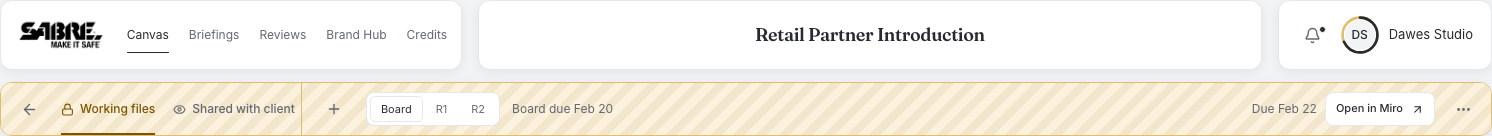
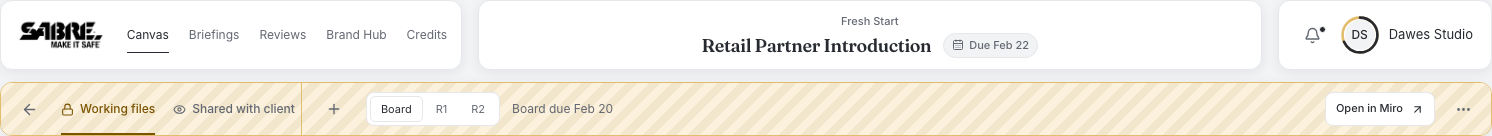
feat: add campaign and due date to the header preview

diff --git a/apps/web/features/projects/project-workspace.tsx b/apps/web/features/projects/project-workspace.tsx
@@ -11,7 +11,7 @@ import { PlaygroundAssetStrip } from "@/features/playground/playground-asset-str
 import { ProjectCreditsChip } from "@/features/credits/project-credits-chip";
 import { CommentPanel } from "./comment-panel";
 import { ProjectDetails } from "./project-details";
-import { ProjectBackLink, ProjectChannelLead } from "./project-header";
+import { ProjectBackLink, ProjectChannelLead, ProjectTitlePreview } from "./project-header";
 import { ProjectPanel, type ProjectPanelKind } from "./project-panel";
 import { ProjectToolBar, ProjectToolButton } from "./project-tool-bar";
 import { useFocusReturn, usePanelFocusReturn } from "./use-panel-focus-return";
@@ -117,6 +117,7 @@ export function ProjectWorkspace({
       ? designerDueDate(project.due_date, board?.dueDate ?? null)
       : project.due_date;
   const shownProject = dueDate === project.due_date ? project : { ...project, due_date: dueDate };
+  const dueLabel = dueDate ? `Due ${formatDate(dueDate)}` : "No due date";
   const shownLink = internal ? (round?.miro ?? board?.miro ?? null) : (version?.miro ?? null);
   const commentTarget = internal ? round : version;
   const commentLabels = Object.fromEntries(
@@ -176,9 +177,12 @@ export function ProjectWorkspace({
             viewer={profile}
             center={
               titleInHeader ? (
-                <h1 className="project-title-preview" title={project.title}>
-                  <span>{project.title}</span>
-                </h1>
+                <ProjectTitlePreview
+                  clientId={project.client_id}
+                  campaignId={project.campaign_id}
+                  title={project.title}
+                  dueLabel={dueLabel}
+                />
               ) : undefined
             }
           />
@@ -191,7 +195,7 @@ export function ProjectWorkspace({
           role={role}
           delivered={project.status === "delivered"}
           viewerId={profile?.id ?? ""}
-          dueLabel={dueDate ? `Due ${formatDate(dueDate)}` : "No due date"}
+          dueLabel={dueLabel}
           boardDueLabel={
             role === "agency" && board?.dueDate
               ? `Board due ${formatDate(board.dueDate)}`

diff --git a/apps/web/features/projects/projects.css b/apps/web/features/projects/projects.css
@@ -32,8 +32,10 @@
 }
 .project-title-preview {
   display: flex;
+  flex-direction: column;
   align-items: center;
   justify-content: center;
+  gap: 4px;
   min-width: 0;
   min-height: 46px;
   margin: 0;
@@ -42,13 +44,50 @@
   border-radius: 12px;
   background: var(--surface);
   box-shadow: 0 3px 14px rgb(0 0 0 / 7%);
-  font-size: 18px;
-  font-weight: 600;
-  letter-spacing: -0.02em;
 }
-.project-title-preview > span {
+.project-title-preview-campaign {
+  max-width: 100%;
+  margin: 0;
   overflow: hidden;
   text-overflow: ellipsis;
+  white-space: nowrap;
+  color: var(--muted);
+  font-size: var(--text-xs);
+  font-weight: 500;
+}
+.project-title-preview-row {
+  display: flex;
+  flex-wrap: wrap;
+  align-items: center;
+  justify-content: center;
+  gap: 6px 12px;
+  max-width: 100%;
+  min-width: 0;
+}
+.project-title-preview-row h1 {
+  min-width: 0;
+  max-width: 100%;
+  margin: 0;
+  overflow: hidden;
+  text-overflow: ellipsis;
+  white-space: nowrap;
+  font-size: 18px;
+  font-weight: 600;
+  line-height: 1.3;
+  letter-spacing: -0.02em;
+}
+.project-title-preview-due {
+  display: inline-flex;
+  flex-shrink: 0;
+  align-items: center;
+  gap: 5px;
+  padding: 3px 8px;
+  border: 1px solid var(--border);
+  border-radius: 999px;
+  background: var(--surface-subtle);
+  color: var(--muted);
+  font-size: var(--text-xs);
+  font-weight: 500;
   white-space: nowrap;
 }
 @container board (max-width: 1100px) {
@@ -64,6 +103,8 @@
     grid-column: 1 / -1;
     grid-row: 2;
     padding-inline: 14px;
+  }
+  .project-title-preview-row h1 {
     font-size: 16px;
   }
 }

diff --git a/apps/web/features/projects/project-header.tsx b/apps/web/features/projects/project-header.tsx
@@ -1,8 +1,41 @@
 "use client";
 
 import Link from "next/link";
-import { ArrowLeft, Eye, Lock } from "lucide-react";
+import { ArrowLeft, CalendarDays, Eye, Lock } from "lucide-react";
+import { useCampaigns } from "@/features/briefings/briefing-data";
 import type { ProjectChannel } from "./project-data";
+
+/** The opt-in header's campaign, project title and role-appropriate due date. */
+export function ProjectTitlePreview({
+  clientId,
+  campaignId,
+  title,
+  dueLabel,
+}: {
+  clientId: string;
+  campaignId: string | null;
+  title: string;
+  dueLabel: string;
+}) {
+  const campaigns = useCampaigns(clientId);
+  const campaign = campaigns.data?.find((item) => item.id === campaignId);
+  return (
+    <div className="project-title-preview">
+      {campaign && (
+        <p className="project-title-preview-campaign" title={campaign.title}>
+          {campaign.title}
+        </p>
+      )}
+      <div className="project-title-preview-row">
+        <h1 title={title}>{title}</h1>
+        <span className="project-title-preview-due">
+          <CalendarDays size={12} aria-hidden="true" />
+          {dueLabel}
+        </span>
+      </div>
+    </div>
+  );
+}
 
 /** The way back from a project to its client's board. */
 export function ProjectBackLink({ clientId }: { clientId: string }) {

diff --git a/apps/web/features/projects/miro-view.tsx b/apps/web/features/projects/miro-view.tsx
@@ -74,7 +74,7 @@ export function MiroBarShell({
   link,
   menu,
 }: {
-  /** The title is supplied by the header above; combine the remaining controls into one row. */
+  /** Title and due date are in the header above; combine the remaining controls into one row. */
   compact?: boolean;
   back: ReactNode;
   title: string;
@@ -93,7 +93,6 @@ export function MiroBarShell({
 }) {
   const actions = (
     <div className="miro-bar-actions">
-      {compact && <span className="miro-bar-due">{due}</span>}
       {link && (
         <a className="button" href={miroBoardUrl(link)} target="_blank" rel="noopener noreferrer">
           Open in Miro

diff --git a/docs/engineering/handoff.md b/docs/engineering/handoff.md
@@ -1,10 +1,12 @@
 # Codex / Claude continuation checkpoint
 
-Updated: 2026-09-27 EDT. Owner: **Codex; recovery/Resend integrated, no active delegated writers**.
+Updated: 2026-09-27 EDT. Owner: **Codex UI integration; no active delegated writers**.
 
 ## Objective and accepted decisions
 
 - Continue production preparation and preserve role-specific workflow notifications.
+- Latest UI request: compact project-header preview with campaign above the title and a due-date
+  badge beside it. Keep the preview opt-in via `?layout=compact-header`, pending visual approval.
 - Miro is the primary creative workflow; no R2 or simultaneous-upload reservation architecture.
 - Resend is the selected production email provider, through Supabase Auth SMTP. No direct SDK.
 - Server, public domain, verified sender and credentials remain unknown. No push/deployment or
@@ -18,6 +20,9 @@ Updated: 2026-09-27 EDT. Owner: **Codex; recovery/Resend integrated, no active d
   [Prior checkpoint](history/handoff-2026-09-27-before-recovery.md) retains their detailed evidence.
 - Separate UI thread committed `f845a5d`, opt-in compact project header preview. Preserve it;
   its own [report](handoffs/2026-09-27-compact-project-header.md) owns the visual evidence.
+- Preview follow-up: campaign via the existing authorized hook and role-specific due badge;
+  no duplicated project date below. Opened the shared browser at its native size after a fixed
+  test viewport clipped the user's window. Future size matrices run in isolated browsers.
 - Resend host SMTP fragment and [email runbook](../operations/email.md) prepared. Invitation and
   recovery APIs stay in Supabase Auth; actual delivery is still a target-environment gate.
 - Backup format2 retains owners/ACLs, checks all foreign keys, records image versions and binds
@@ -30,7 +35,7 @@ Updated: 2026-09-27 EDT. Owner: **Codex; recovery/Resend integrated, no active d
   removed. Fixed fixture-dependent cleanup, including Playground Storage objects. SABRE checkpoint
   untouched. Added safety tests, fixture regressions and final CI foreign-key audit.
 
-## Checks executed in this task
+## Recovery/Resend evidence (prior task)
 
 - Web gate: 127 files / 1,249 unit tests; types/lint/format pass.
 - Recovery safety: 11 tests pass. CI guard tests:4 pass. Proxy render:3 pass; Docker proxy checks
@@ -53,11 +58,16 @@ Updated: 2026-09-27 EDT. Owner: **Codex; recovery/Resend integrated, no active d
 
 ## Environment and next concrete work
 
+- Current UI checks: web gate 127 files / 1,249 tests; six Chromium widths 320–1600 px,
+  campaign/date placement, channel/round actions, More/Escape and Details pass; header Axe0.
+  Native shared tab1512×696: account, project bar and bottom tools entirely visible, no overflow.
+  Final desktop/mobile preview captures inspected. See the linked UI report.
+
 - Live app3003/API55421/DB55422/media55430 left available. Existing older fixed clone retained.
 - Filesystem staging remains stopped with data/volumes retained. When resumed:
   API56110/DB56111/web3113/media56114/mail56115. Do not provision or reseed it again.
-- Recovery/Resend task is verified and committed separately from the compact-header preview.
-  The unrelated `login.png` deletion and that thread's pending preview docs are preserved.
+- Recovery/Resend is verified in `a7b35e5`; its owner released this checkpoint before UI integration.
+  The unrelated `login.png` deletion is preserved. Next UI action: user reviews the updated preview.
 - Then obtain target server/domain/sender configuration and use the [production runbook](../operations/production.md)
   when deployment is explicitly requested. Verify Resend delivery with controlled recipients.
 - Remaining release gates: real DNS/TLS issuance/renewal, external SMTP, off-host recovery,

diff --git a/docs/verification/compact-project-header-2026-09-27.md b/docs/verification/compact-project-header-2026-09-27.md
@@ -2,11 +2,14 @@
 
 The user requested a reversible visual experiment: use the space between client navigation and
 notifications for the project title alone, with the full Working files / Shared with client bar
-immediately below. Enable it with `?layout=compact-header` on any authorized project route.
+immediately below, then requested the campaign above the title and a due-date badge beside it.
+Enable it with `?layout=compact-header` on any authorized project route.
 Remove that parameter to restore the default layout; no preference or project data is written.
 
-The title is one semantic `h1`, with truncation and a full-title tooltip. The bar retains Back,
-board/round/version selection, channel, dates, Open in Miro, More and existing primary actions.
+The title is one semantic `h1`, with truncation and a full-title tooltip. The campaign comes from
+the existing authorized campaign hook; the badge uses the viewer's existing due date. The bar
+retains Back, board/round/version selection, channel, the agency's board due date, Open in Miro,
+More and existing primary actions. The project due date is not duplicated in that lower bar.
 Role checks and data access are unchanged. At work-area widths up to 1100 px the title takes its
 own row; controls wrap within the viewport. A missing client header retains the existing title.
 
@@ -18,6 +21,9 @@ own row; controls wrap within the viewport. A missing client header retains the 
   sits between navigation and account. Axe: zero violations within `.project-chrome` at all six.
 - At 1600 px, chrome height fell from 189 to 136 px, reclaiming 53 px for the work area.
 - Round selection, channel switching, More / Escape focus return and Details opening passed.
+- Repeated the web gate and six-width browser check after adding campaign/date metadata:
+  1,249 tests pass; Fresh Start sits above the title, the badge sits beside it on desktop,
+  the project due label occurs once in the chrome, and all six header Axe checks pass.
 - The existing client browser session also rendered the preview with its client versions and
   no internal channel controls. Miro emitted third-party loading errors; this pass verifies the
   application header, not Miro authentication or external board availability.
@@ -26,6 +32,22 @@ own row; controls wrap within the viewport. A missing client header retains the 
   [mobile](screenshots/compact-project-header-2026-09-27-mobile.png).
 
 ## Review and removal
+
+### Native-window follow-up
+
+The user reported a clipped right edge and missing bottom tools after the interactive browser
+check. That check had set the shared Chrome tab's viewport to 1600 × 1000, larger than the user's
+window. A fresh preview tab was opened without viewport emulation (`page.viewportSize() === null`).
+Its layout and visual viewport both measured 1512 × 696; document scroll width was exactly 1512.
+The account card and project bar ended at x=1496, and the bottom tool bar ended at y=680: all four
+measured control groups were fully inside the visible viewport. The preview and Miro rendered
+in that native tab. No application CSS change was needed for this report.
+
+Keep viewport matrices in isolated test browsers. Do not leave a fixed emulated viewport in a
+shared user tab; use its natural size for the final interactive review. The current-session
+capture is in ignored `outputs/compact-header-native-window.png`.
+
+### Preview decision
 
 The preview is local and opt-in, pending the user's visual decision; no push or deployment.
 Working screenshots, measurements and the one-off browser check live in ignored `outputs/`.

diff --git a/docs/engineering/handoffs/2026-09-27-compact-project-header.md b/docs/engineering/handoffs/2026-09-27-compact-project-header.md
@@ -7,12 +7,17 @@
   `projects.css`, `workspace/canvas-header.tsx`, projects README, design-system preview note,
   verification record and its two final header images.
 - Decision: URL-only opt-in, no preference/data mutation; mobile wraps the title onto its own row.
+- Follow-up implemented: campaign above the title via existing `useCampaigns`; due badge beside
+  the title, using the existing role-specific deadline, without repetition in the lower bar.
 - Verified: web gate, 127 files / 1,249 tests; Chromium at 320/390/768/1024/1280/1600 px;
   zero header Axe violations; round/channel selection, More/Escape focus and Details pass.
 - Desktop: header 189 → 136 px; 53 px reclaimed. Agency and existing client views inspected.
+- Follow-up: the shared Chrome tab had a fixed 1600 × 1000 test viewport. Opened a fresh preview
+  with no emulation; native 1512 × 696, no overflow, account/bar/bottom tools entirely visible.
+  No CSS change needed; keep future viewport matrices in isolated test browsers.
 - Evidence: `docs/verification/compact-project-header-2026-09-27.md`.
 - Limit: Miro emitted third-party loading errors; external board availability was not verified.
-- Shared `handoff.md` is owned by the concurrent recovery/Resend work and was not overwritten.
-  Its owner should link this report when integrating that checkpoint.
+- Recovery/Resend owner released the shared checkpoint after `a7b35e5`; the UI integration
+  now updates it while preserving that task's objective, evidence and production gaps.
 - Unrelated recovery/Resend files and the preexisting `login.png` deletion are preserved.
 - Next: user reviews the preview and chooses to adopt, adjust or remove it. No push/deploy.

diff --git a/apps/web/features/projects/README.md b/apps/web/features/projects/README.md
@@ -15,9 +15,13 @@ channel, with Supabase policies rather than the interface deciding what each one
 ## Page and chrome
 
 **Temporary layout preview (2026-09-27):** add `?layout=compact-header` to a project URL
-(or `&layout=compact-header` when it already has parameters). The title occupies a separate card
-between client navigation and the account card. Back, channels, rounds/versions, dates and actions
-share the full-width bar immediately below. At work-area widths of 1100 px or less, the title
+(or `&layout=compact-header` when it already has parameters). A separate card between client
+navigation and the account card shows the campaign above the project title, with the due date
+in a small badge beside the title. `ProjectTitlePreview` reuses the authorized `useCampaigns`
+read; absent campaign data does not invent a label. The due badge retains the viewer's existing
+date rule (the board's internal deadline for a designer). Back, channels, rounds/versions, the
+agency's board due date and actions share the full-width bar immediately below. The project due
+date appears once in the header. At work-area widths of 1100 px or less, the title
 gets its own row and the controls wrap. This URL-only preview saves no preference and makes no
 data changes; remove the parameter to restore the normal layout. See the
 [visual verification](../../../../docs/verification/compact-project-header-2026-09-27.md).

diff --git a/docs/architecture/design-system.md b/docs/architecture/design-system.md
@@ -147,9 +147,10 @@ The eight sections are a row of links under the title, in the order of their gro
 
 ### Canvas identity header
 
-**Temporary project-header preview (2026-09-27):** `?layout=compact-header` places only the
-project title in a neutral card between navigation and account controls, and combines the Miro
-controls into one full-width, channel-tinted bar below. At 1100 px of work area or less, the title
+**Temporary project-header preview (2026-09-27):** `?layout=compact-header` places the project
+title in a neutral card between navigation and account controls, with the campaign in small muted
+text above and a due-date badge beside the title. The date is not repeated in the lower bar. The
+Miro controls share one full-width, channel-tinted bar below. At 1100 px of work area or less, the title
 moves to its own row. This is an opt-in visual experiment; removing the parameter restores the
 layout described below. [Verification](../verification/compact-project-header-2026-09-27.md).
 
